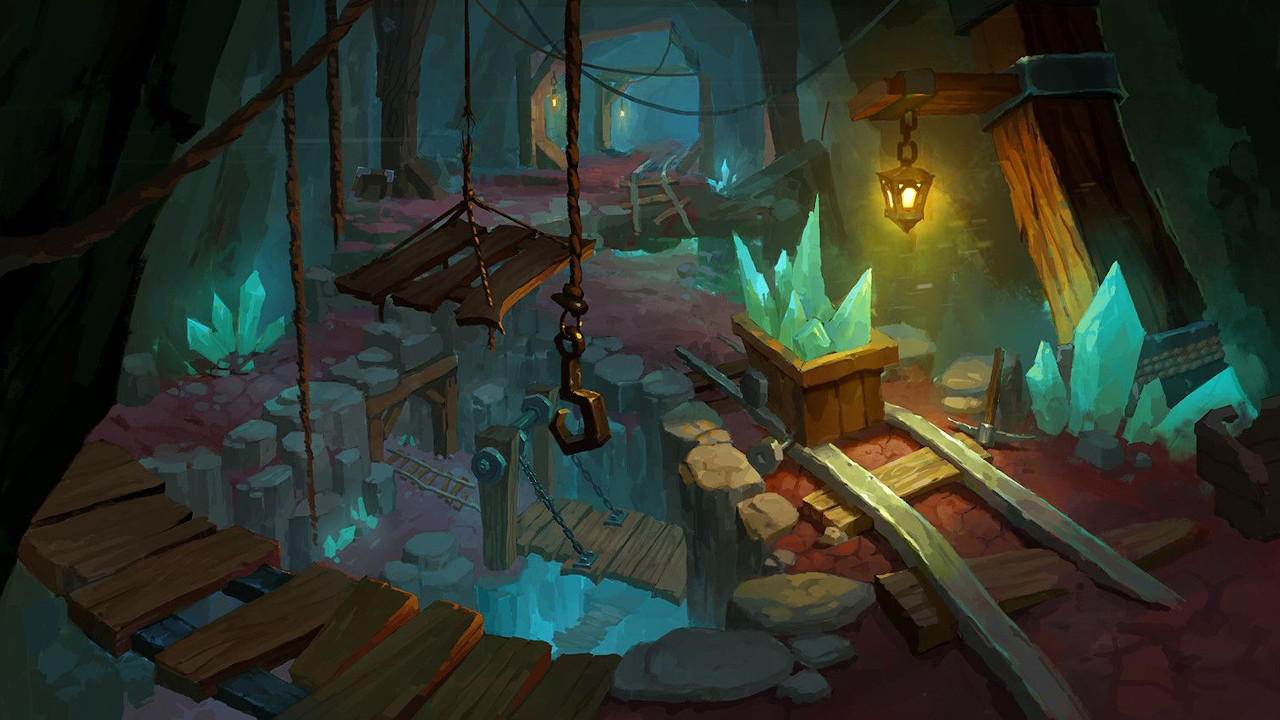
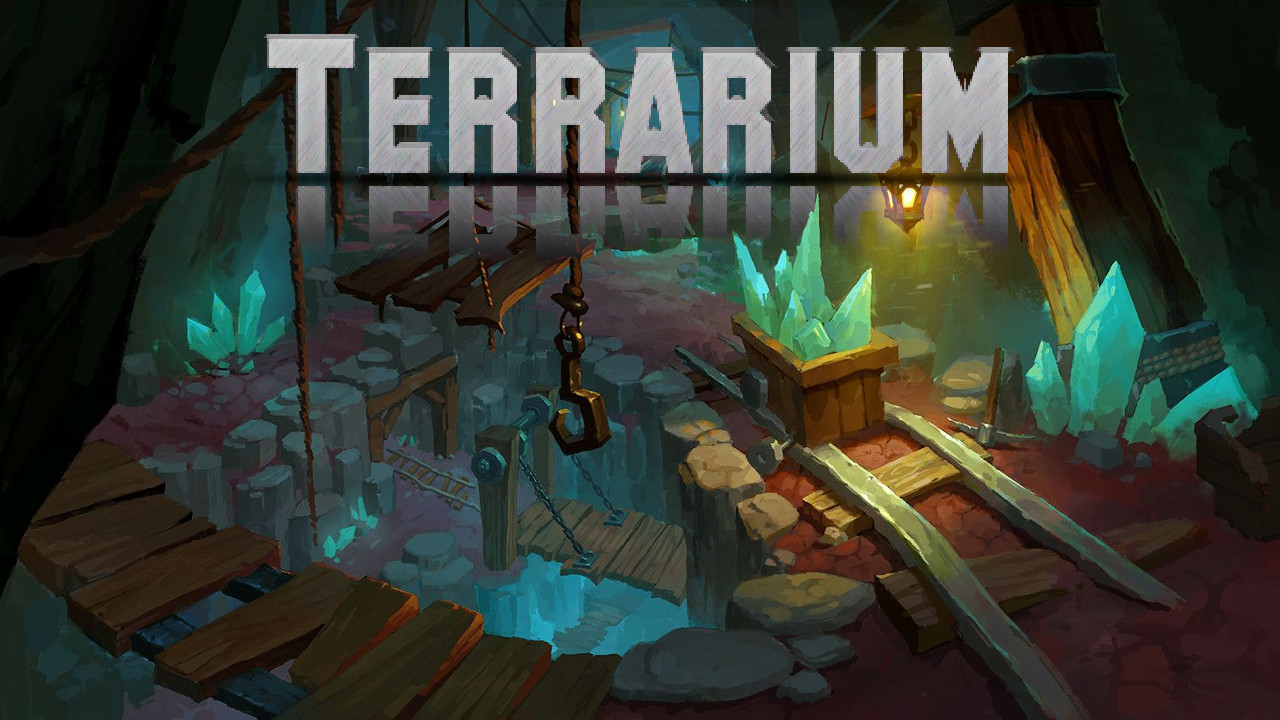
Nowe tło menu głównego

Changed region(s): [[0.1875, 0.0306, 0.8125, 0.3667]]

diff --git a/Terrarium/ScreenNewGame.cpp b/Terrarium/ScreenNewGame.cpp
@@ -174,13 +174,14 @@ namespace terr
 		map_definitions[q].player_y = 10;
 		map_definitions[q].initial_time = 300;
 
-		map_definitions[q].layers[0] = { 45, 9, TILE_MOON_ROCK, 14.2f, -2.f, true };
-		map_definitions[q].layers[1] = { 60, 10, TILE_MOON_COAL, 2.f, 0.55f, true };
-		map_definitions[q].layers[2] = { 90, 20, TILE_MOON_IRON, 12.f, 0.75f, true };
-		map_definitions[q].layers[3] = { 120, 20, TILE_MOON_GOLD, 3.f, 0.85f, true };
-		map_definitions[q].layers[4] = { 170, 20, TILE_MOON_EMERALD, 5.f, 0.9f, true };
-		map_definitions[q].layers[5] = { 190, 5, TILE_MOON_EMERALD, 0.3f, 0.95f, true };
-		map_definitions[q].layers[6] = { 200, 50, TILE_OBSIDIAN, 0.1f, 0.95f, true };
+		map_definitions[q].layers[0] = { 45, 10, TILE_MOON_TORF, 0.05f, 0.1f, true };
+		map_definitions[q].layers[1] = { 46, 9, TILE_MOON_ROCK, 14.2f, -2.f, true };
+		map_definitions[q].layers[2] = { 60, 10, TILE_MOON_COAL, 2.f, 0.55f, true };
+		map_definitions[q].layers[3] = { 90, 20, TILE_MOON_IRON, 12.f, 0.75f, true };
+		map_definitions[q].layers[4] = { 120, 20, TILE_MOON_GOLD, 3.f, 0.85f, true };
+		map_definitions[q].layers[5] = { 170, 20, TILE_MOON_EMERALD, 5.f, 0.9f, true };
+		map_definitions[q].layers[6] = { 190, 5, TILE_MOON_EMERALD, 0.3f, 0.95f, true };
+		map_definitions[q].layers[7] = { 200, 50, TILE_OBSIDIAN, 0.1f, 0.95f, true };
 		++q;
 
 

diff --git a/Terrarium/ScreenMenu.cpp b/Terrarium/ScreenMenu.cpp
@@ -8,15 +8,15 @@ namespace terr
 	ScreenMenu::ScreenMenu(GlobalReference global) :
 		global(global)
 	{
+		m_background_shape.setSize(sf::Vector2f(WINDOW_WIDTH, WINDOW_HEIGHT));
 		m_background_shape.setTexture(&global->assets.getTexture("menu/background"));
-		m_background_shape.setSize(U::vec2f(global->window.getSize()));
 	}
 
 	void ScreenMenu::draw(sf::Time time)
 	{
 		global->window.clear();
 		global->window.draw(m_background_shape);
-		for (auto const &position : m_positions)
+		for (auto const& position : m_positions)
 		{
 			global->window.draw(position);
 		}
@@ -29,7 +29,7 @@ namespace terr
 
 		int i = 0;
 		m_hover_above = -1;
-		for (auto &position : m_positions)
+		for (auto& position : m_positions)
 		{
 			auto bounds = position.getGlobalBounds();
 

diff --git a/Terrarium/ScreenMainMenu.cpp b/Terrarium/ScreenMainMenu.cpp
@@ -6,26 +6,30 @@ namespace terr {
 	ScreenMainMenu::ScreenMainMenu(GlobalReference global) :
 		ScreenMenu(global)
 	{
+		addPosition(L"");
 		addPosition(L"Nowa Gra");
 		addPosition(L"Wczytaj Gre");
 		addPosition(L"Wyjscie");
+
+		m_background_shape.setTexture(&global->assets.getTexture("menu/background_main"));
+		m_background_shape.setTextureRect({ 0,0,WINDOW_WIDTH, WINDOW_HEIGHT });
 	}
 
 	void ScreenMainMenu::clicked_option(int id)
 	{
 		switch (id)
 		{
-		case 0:
+		case 1:
 		{
 			global->navigator.pushScreen(ScreenReference(new ScreenNewGame(global)));
 			break;
 		}
-		case 1:
+		case 2:
 		{
 			global->navigator.pushScreen(ScreenReference(new ScreenLoadGame(global)));
 			break;
 		}
-		case 2:
+		case 3:
 		{
 			global->window.close();
 			break;

diff --git a/Terrarium/ScreenMenu.hpp b/Terrarium/ScreenMenu.hpp
@@ -17,6 +17,7 @@ namespace terr {
 	protected:
 		GlobalReference global;
 		virtual void clicked_option(int id) {};
+		sf::RectangleShape m_background_shape;
 		
 	private:		
 		std::vector<sf::Text> m_positions;
@@ -26,7 +27,5 @@ namespace terr {
 		
 		const sf::Color m_default_color = sf::Color::White;
 		const sf::Color m_hover_color = sf::Color::Cyan;
-
-		sf::RectangleShape m_background_shape;
 	};
 }

diff --git a/Terrarium/Game.cpp b/Terrarium/Game.cpp
@@ -14,6 +14,7 @@ namespace terr {
 		global->assets.addFont("fancy", "AnotherRound.otf");
 
 		global->assets.addTexture("menu/background", "images/menu_background.jpg");
+		global->assets.addTexture("menu/background_main", "images/menu_background_main.jpg");
 		global->assets.addTexture("help", "images/help_screen.jpg");
 
 		global->assets.addTexture("game/character", "images/character_spritesheet.png");

diff --git a/Terrarium/World.cpp b/Terrarium/World.cpp
@@ -176,6 +176,8 @@ namespace terr {
 		tile_definitions[TILE_DIRT].score = 1;
 		tile_definitions[TILE_SAND].texture_coords = sf::Vector2f(40, 12);
 		tile_definitions[TILE_SAND].score = 1;
+		tile_definitions[TILE_MOON_TORF].texture_coords = sf::Vector2f(1, 12);
+		tile_definitions[TILE_MOON_TORF].score = 1;
 
 		tile_definitions[TILE_STONE].hardness = 2;
 		tile_definitions[TILE_STONE].score = 2;

diff --git a/Terrarium/Definitions.hpp b/Terrarium/Definitions.hpp
@@ -38,8 +38,9 @@
 #define TILE_MOON_IRON 15
 #define TILE_MOON_GOLD 16
 #define TILE_MOON_EMERALD 17
+#define TILE_MOON_TORF 18
 
-#define TILE_TYPES 18
+#define TILE_TYPES 19
 #define MAX_LAYERS 30
 
 #define GOD_SPEED_MULTIPLIER 3.f
